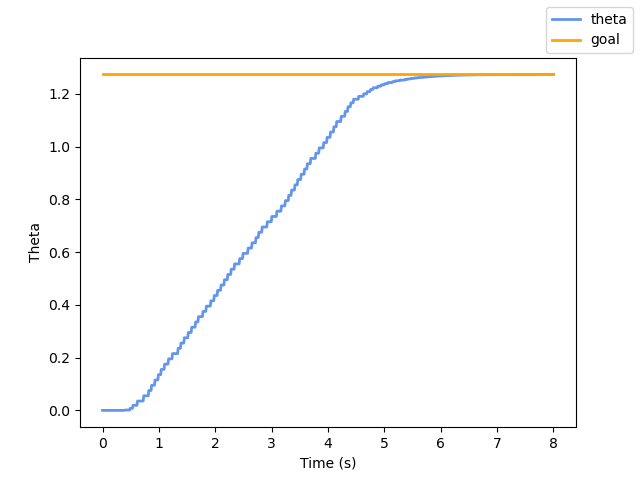
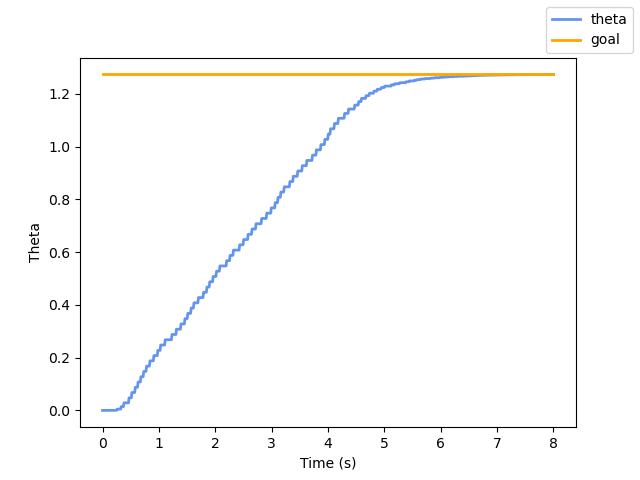
Add ROS parameter gain for heading controller

Changed region(s): [[0.1875, 0.3125, 0.5, 0.875], [0.5312, 0.1562, 0.75, 0.25], [0.5, 0.25, 0.5312, 0.3125]]

diff --git a/autonomy_repo/scripts/heading_controller.py b/autonomy_repo/scripts/heading_controller.py
@@ -8,7 +8,11 @@ from asl_tb3_msgs.msg  import TurtleBotControl, TurtleBotState
 class HeadingController(BaseHeadingController):
     def __init__(self):
         super().__init__()
-        self.kp = 2.0
+        self.declare_parameter("kp", 2,0)
+
+    @property
+    def kp(self) -> float:
+        return self.get_parameter("kp").value
 
     def compute_control_with_goal(self, state: TurtleBotState, goal: TurtleBotState) ->  TurtleBotControl:
         wrappedError = wrap_angle( goal.theta - state.theta)

diff --git a/autonomy_repo/scripts/p3_plot.py b/autonomy_repo/scripts/p3_plot.py
@@ -60,7 +60,7 @@ class PlottingNode(Node):
         ax.set_xlabel("Time (s)")
         ax.set_ylabel("Theta")
         fig.legend()
-        filename = Path("src/autonomy_repo/plots/p3_output.png")
+        filename = Path("src/zane1234/autonomy_repo/plots/p3_output.png")
         try:
             fig.savefig(filename)  # save the figure to file
         except OSError as e:
